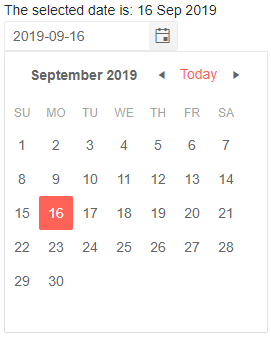
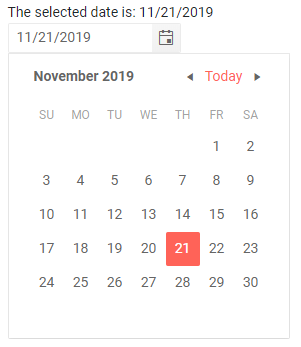
chore(dateInputs): sync formatting with screenshots, remove default formats which are now culture dependant

diff --git a/components/timepicker/overview.md b/components/timepicker/overview.md
@@ -52,7 +52,7 @@ Selected time: @selectedTime?.ToLongTimeString()
 The Time Picker component exposes the following features:
 
 * `Enabled` - Specifies whether typing in the input and opening the dropdown are allowed.
-* `Format` - Specifies the format of the DateInput of the TimePicker. Defaults to `hh:mm tt` (12 hour time with AM/PM specifiers). Read more in the [Supported Formats]({%slug components/dateinput/supported-formats%}) article. Note that format specifiers for non-time portions will only be editable in the input and will not have a representation in the time picker dropdown.
+* `Format` - Specifies the format of the DateInput of the TimePicker. Read more in the [Supported Formats]({%slug components/dateinput/supported-formats%}) article. Note that format specifiers for non-time portions will only be editable in the input and will not have a representation in the time picker dropdown.
 * `Min` - The earliest time that the user can select in the dropdown.
 * `Max` - The latest time that the user can select in the dropdown.
 * `Value` - The current value of the input. Can be used for binding.

diff --git a/components/datepicker/overview.md b/components/datepicker/overview.md
@@ -39,7 +39,7 @@ The Date Picker component exposes the following features:
 *  `BottomView` - Defines the bottommost view in the popup calendar to which the user can navigate to. Defaults to `CalendarView.Month`.
 * `DisabledDates` - Specifies a list of dates that can not be selected.
 * `Enabled` - Specifies whether typing in the input is allowed.
-* `Format` - Specifies the format of the DateInput of the DatePicker. Defaults to `yyyy-MM-dd`. Read more in the [Supported Formats]({%slug components/dateinput/supported-formats%}) article.
+* `Format` - Specifies the format of the DateInput of the DatePicker. Read more in the [Supported Formats]({%slug components/dateinput/supported-formats%}) article.
 * `PopupHeight` - Defines the height of the DatePicker's Popup. Defaults to `auto`.
 * `PopupWidth` - Defines the width of the DatePicker's Popup. Defaults to `auto`.
 * `Value` - The current value of the input. Can be used for binding.

diff --git a/components/datetimepicker/overview.md b/components/datetimepicker/overview.md
@@ -52,7 +52,7 @@ The DateTimePicker component exposes the following features:
 
 * `Class` - the custom CSS class rendered on the wrapping element.
 * `Enabled` - Specifies whether typing in the input and opening the dropdown are allowed.
-* `Format` - Specifies the format of the DateInput of the DateTimePicker. Defaults to `MM/dd/yyyy HH:mm:ss` (24 hour time short month and date). Read more in the [Supported Formats]({%slug components/dateinput/supported-formats%}) article.
+* `Format` - Specifies the format of the DateInput of the DateTimePicker. Read more in the [Supported Formats]({%slug components/dateinput/supported-formats%}) article.
 * `Min` - The earliest date and time that the user can select in the dropdown.
 * `Max` - The latest date and time that the user can select in the dropdown.
 * `Value` - The current value of the input. Can be used for binding.

diff --git a/components/dateinput/overview.md b/components/dateinput/overview.md
@@ -18,8 +18,9 @@ To use a Telerik Date Input for Blazor, add the `TelerikDateInput` tag.
 
 ````CSHTML
 @dateInputValue
+<br />
 
-<TelerikDateInput @bind-Value="@dateInputValue" Format="dd/MMMM/yyyy" @ref="theDateInput">
+<TelerikDateInput @bind-Value="@dateInputValue" Format="dd MMMM yyyy" @ref="theDateInput">
 </TelerikDateInput>
 
 @code {
@@ -30,6 +31,10 @@ To use a Telerik Date Input for Blazor, add the `TelerikDateInput` tag.
     // in this case it is DateTime, but it could be DateTime?
 }
 ````
+
+>caption The result from the code snippet above
+
+![](images/date-input-first-look.png)
 
 >caption The date input provides the following features:
 
